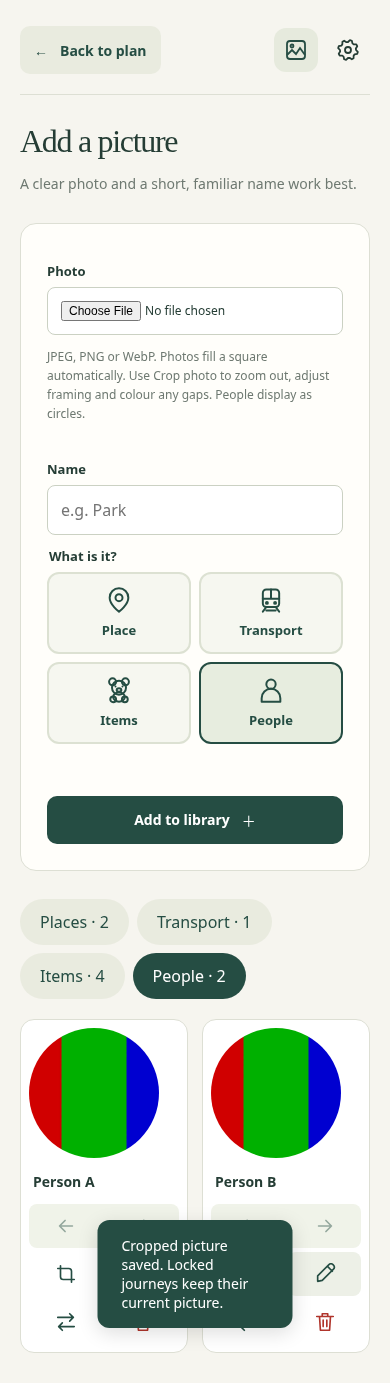
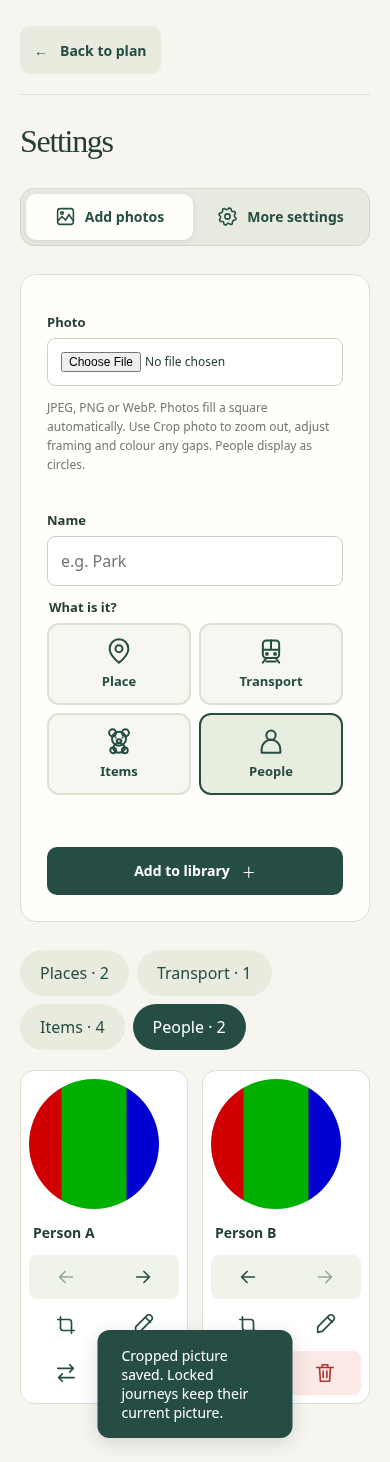
Combine photo management and settings in segmented tabs in v1.0.16

diff --git a/transition_cues/transition-cues-web/app.js b/transition_cues/transition-cues-web/app.js
@@ -3,7 +3,7 @@ const $ = s => document.querySelector(s);
 const esc = x => String(x ?? '').replace(/[&<>"']/g, c => ({'&':'&amp;','<':'&lt;','>':'&gt;','"':'&quot;',"'":'&#39;'}[c]));
 const app = $('#app');
 let state, selected = {places:null, transport:null, items:[], people:[]}, category = 'places', locked = null, taps = [], pendingDelete = null;
-let toastTimer, pendingJourney = null, pendingEdit = null, itemsReviewed = false, reorderBusy = false;
+let toastTimer, pendingJourney = null, pendingEdit = null, itemsReviewed = false, reorderBusy = false, settingsTabFocus = false;
 function toast(message) { $('#toast').textContent = message; $('#toast').hidden = false; clearTimeout(toastTimer); toastTimer = setTimeout(() => $('#toast').hidden = true, 4500); }
 async function api(path, data) {
   let response;
@@ -15,14 +15,34 @@ async function api(path, data) {
   return result;
 }
 async function refresh() { state = await api('state'); state.items ??= []; state.people ??= []; }
+const libraryIcon='<svg viewBox="0 0 24 24" fill="none" stroke="currentColor" stroke-width="1.8" aria-hidden="true"><rect x="3" y="3" width="18" height="18" rx="3"/><circle cx="8" cy="8" r="1.5"/><path d="m3 17 5-5 4 4 4-6 5 7"/></svg>';
+const settingsIcon='<svg viewBox="0 0 24 24" fill="none" stroke="currentColor" stroke-width="1.8" stroke-linejoin="round" aria-hidden="true"><polygon points="20.00,12.00 21.81,13.95 21.24,15.83 18.65,16.44 17.66,17.66 17.56,20.31 15.83,21.24 13.56,19.85 12.00,20.00 10.05,21.81 8.17,21.24 7.56,18.65 6.34,17.66 3.69,17.56 2.76,15.83 4.15,13.56 4.00,12.00 2.19,10.05 2.76,8.17 5.35,7.56 6.34,6.34 6.44,3.69 8.17,2.76 10.44,4.15 12.00,4.00 13.95,2.19 15.83,2.76 16.44,5.35 17.66,6.34 20.31,6.44 21.24,8.17 19.85,10.44"/><circle cx="12" cy="12" r="3"/></svg>';
 function frame(content, route) {
   document.body.classList.remove('lock-active');
-  const libraryIcon='<svg viewBox="0 0 24 24" fill="none" stroke="currentColor" stroke-width="1.8" aria-hidden="true"><rect x="3" y="3" width="18" height="18" rx="3"/><circle cx="8" cy="8" r="1.5"/><path d="m3 17 5-5 4 4 4-6 5 7"/></svg>';
-  const settingsIcon='<svg viewBox="0 0 24 24" fill="none" stroke="currentColor" stroke-width="1.8" stroke-linejoin="round" aria-hidden="true"><polygon points="20.00,12.00 21.81,13.95 21.24,15.83 18.65,16.44 17.66,17.66 17.56,20.31 15.83,21.24 13.56,19.85 12.00,20.00 10.05,21.81 8.17,21.24 7.56,18.65 6.34,17.66 3.69,17.56 2.76,15.83 4.15,13.56 4.00,12.00 2.19,10.05 2.76,8.17 5.35,7.56 6.34,6.34 6.44,3.69 8.17,2.76 10.44,4.15 12.00,4.00 13.95,2.19 15.83,2.76 16.44,5.35 17.66,6.34 20.31,6.44 21.24,8.17 19.85,10.44"/><circle cx="12" cy="12" r="3"/></svg>';
-  app.innerHTML = `<div class="shell"><header class="header ${route==='choose'?'':'subpage-header'}">${route==='choose'?'<a class="brand" href="#choose"><img src="/icon.svg" alt=""><span>ReadySteady<small>Transition Cues</small></span></a>':'<a class="back-plan secondary" href="#choose"><span aria-hidden="true">←</span> Back to plan</a>'}<nav class="nav" aria-label="Main navigation">${[['manage','Picture library',libraryIcon],['settings','Settings',settingsIcon]].map(([r,t,icon])=>`<a class="icon-link" href="#${r}" aria-label="${t}" title="${t}" ${route===r?'aria-current="page"':''}>${icon}</a>`).join('')}</nav>${state.returnUrl ? `<a class="return-link" href="${esc(state.returnUrl)}">← Back to main screen</a>` : ''}</header>${content}</div>`;
+  app.innerHTML = `<div class="shell"><header class="header ${route==='choose'?'':'subpage-header'}">${route==='choose'?'<a class="brand" href="#choose"><img src="/icon.svg" alt=""><span>ReadySteady<small>Transition Cues</small></span></a>':'<a class="back-plan secondary" href="#choose"><span aria-hidden="true">←</span> Back to plan</a>'}${route==='choose'?`<nav class="nav" aria-label="Main navigation">${[['manage','Picture library',libraryIcon],['settings','Settings',settingsIcon]].map(([r,t,icon])=>`<a class="icon-link" href="#${r}" aria-label="${t}" title="${t}" ${route===r?'aria-current="page"':''}>${icon}</a>`).join('')}</nav>`:''}${state.returnUrl ? `<a class="return-link" href="${esc(state.returnUrl)}">← Back to main screen</a>` : ''}</header>${content}</div>`;
 }
-function intro(title, description, extra='') { return `<div class="intro"><div><h1>${title}</h1><p>${description}</p></div>${extra}</div>`; }
+function intro(title, description, extra='') { return `<div class="intro"><div><h1>${title}</h1>${description?`<p>${description}</p>`:''}</div>${extra}</div>`; }
 
+function settingsHeader(section) {
+  return intro('Settings')+`<div class="settings-segments" role="tablist" aria-label="Settings sections">${[['photos','Add photos',libraryIcon],['more','More settings',settingsIcon]].map(([key,label,icon])=>`<button type="button" role="tab" id="settingsTab-${key}" aria-selected="${key===section}" aria-controls="settingsPanel" tabindex="${key===section?'0':'-1'}" data-settings-section="${key}">${icon}<span>${label}</span></button>`).join('')}</div>`;
+}
+function wireSettingsSections(section) {
+  const tabs=[...app.querySelectorAll('[data-settings-section]')];
+  function selectTab(tab) {
+    const target=tab.dataset.settingsSection==='photos'?'#settings':'#settings-more';
+    if(tab.dataset.settingsSection===section){tab.focus();return;}
+    settingsTabFocus=true;location.hash=target;
+  }
+  tabs.forEach((tab,index)=>{
+    tab.onclick=()=>selectTab(tab);
+    tab.onkeydown=e=>{
+      const next={ArrowLeft:(index+1)%2,ArrowRight:(index+1)%2,Home:0,End:1}[e.key];
+      if(next===undefined)return;
+      e.preventDefault();selectTab(tabs[next]);
+    };
+  });
+  if(settingsTabFocus){$('#settingsTab-'+section).focus({preventScroll:true});settingsTabFocus=false;}
+}
 const MAX_BRING_ITEMS = 4;
 function empty(kind) {
   const content = {
@@ -117,8 +137,9 @@ const uploadCategories = [
   ['people','People','<circle cx="12" cy="7" r="4"/><path d="M4 22v-3a8 8 0 0 1 16 0v3Z"/>']
 ];
 function renderManage() {
-  frame(intro('Add a picture','A clear photo and a short, familiar name work best.')+
-    `<div class="management"><section class="panel" aria-label="Upload a picture"><form id="uploadForm"><div><label for="photo">Photo</label><input id="photo" type="file" accept="image/jpeg,image/png,image/webp" required><p class="help">JPEG, PNG or WebP. Photos fill a square automatically. Use Crop photo to zoom out, adjust framing and colour any gaps. People display as circles.</p><img id="photoPreview" class="preview-image" alt="Selected photo preview" hidden><button id="cropUpload" class="secondary" type="button" hidden>Crop photo</button></div><div><label for="name">Name</label><input id="name" maxlength="60" placeholder="e.g. Park" required></div><fieldset class="kind-picker"><legend>What is it?</legend><div class="kind-options">${categoryChoices('kind',category)}</div></fieldset><p id="uploadError" class="error" role="alert"></p><button class="primary" type="submit" id="uploadButton">Add to library <span aria-hidden="true">＋</span></button></form></section><section aria-label="Existing pictures"><div class="tabs" aria-label="Picture categories">${[['places','Places'],['transport','Transport'],['items','Items'],['people','People']].map(([k,t])=>`<button data-tab="${k}" aria-pressed="${category===k}">${t} · ${state[k].length}</button>`).join('')}</div><div id="library"></div></section></div>`, 'manage');
+  frame(settingsHeader('photos')+`<section id="settingsPanel" role="tabpanel" aria-labelledby="settingsTab-photos">`+
+    `<div class="management"><section class="panel" aria-label="Upload a picture"><form id="uploadForm"><div><label for="photo">Photo</label><input id="photo" type="file" accept="image/jpeg,image/png,image/webp" required><p class="help">JPEG, PNG or WebP. Photos fill a square automatically. Use Crop photo to zoom out, adjust framing and colour any gaps. People display as circles.</p><img id="photoPreview" class="preview-image" alt="Selected photo preview" hidden><button id="cropUpload" class="secondary" type="button" hidden>Crop photo</button></div><div><label for="name">Name</label><input id="name" maxlength="60" placeholder="e.g. Park" required></div><fieldset class="kind-picker"><legend>What is it?</legend><div class="kind-options">${categoryChoices('kind',category)}</div></fieldset><p id="uploadError" class="error" role="alert"></p><button class="primary" type="submit" id="uploadButton">Add to library <span aria-hidden="true">＋</span></button></form></section><section aria-label="Existing pictures"><div class="tabs" aria-label="Picture categories">${[['places','Places'],['transport','Transport'],['items','Items'],['people','People']].map(([k,t])=>`<button data-tab="${k}" aria-pressed="${category===k}">${t} · ${state[k].length}</button>`).join('')}</div><div id="library"></div></section></div></section>`, 'settings');
+  wireSettingsSections('photos');
   const uploadKind=()=>$('#uploadForm input[name="kind"]:checked').value;
   app.querySelectorAll('[data-tab]').forEach(b=>b.onclick=()=>{category=b.dataset.tab;renderManage();});
   renderLibrary();
@@ -296,7 +317,8 @@ function renderLibrary() {
 $('#deleteCancel').onclick=()=>$('#deleteDialog').close();
 $('#deleteForm').onsubmit=async e=>{e.preventDefault();const b=e.submitter;b.disabled=true;try{await api('delete',pendingDelete);$('#deleteDialog').close();await refresh();renderManage();toast('Picture removed.');}catch(error){toast(error.message);}finally{b.disabled=false;}};
 function renderSettings() {
-  frame(intro('A few things for the grown-ups.','Keep your return link up to date.')+`<div class="settings-grid"><section class="panel"><h2>Back to main screen</h2><p>Add the address of your main tablet screen. A return link will appear on the parent screens.</p><form id="returnForm"><div><label for="returnUrl">Main screen address</label><input id="returnUrl" type="url" placeholder="http://homeassistant.local:8123/…" value="${esc(state.returnUrl)}"></div><button class="primary">Save link</button><p id="returnError" class="error" role="alert"></p></form></section><section class="panel wide"><h2>On the tablet</h2><p>Choose a place, transport and up to four optional items to bring along, plus any people joining you, then tap “Show the plan”. To finish, tap the picture screen five times within three seconds. Turn the device to landscape to show the plan.</p><p>Use the tablet’s kiosk mode or guided access to prevent leaving the browser. Keep ReadySteady open in its own browser tab rather than embedding it inside another page.</p><p class="help">To manage pictures from your phone, open this app’s address and choose Picture library. Both devices must reach the same server. Your pictures stay on your home server.</p></section></div>`, 'settings');
+  frame(settingsHeader('more')+`<section id="settingsPanel" role="tabpanel" aria-labelledby="settingsTab-more"><div class="settings-grid"><section class="panel"><h2>Back to main screen</h2><p>Add the address of your main tablet screen. A return link will appear on the parent screens.</p><form id="returnForm"><div><label for="returnUrl">Main screen address</label><input id="returnUrl" type="url" placeholder="http://homeassistant.local:8123/…" value="${esc(state.returnUrl)}"></div><button class="primary">Save link</button><p id="returnError" class="error" role="alert"></p></form></section></div></section>`, 'settings');
+  wireSettingsSections('more');
   $('#returnForm').onsubmit=async e=>{e.preventDefault();const b=e.submitter;b.disabled=true;try{await api('settings',{returnUrl:$('#returnUrl').value.trim()});await refresh();renderSettings();toast('Return link saved.');}catch(error){$('#returnError').textContent=error.message;}finally{b.disabled=false;}};
 }
 
@@ -304,7 +326,7 @@ async function route() {
   if($('#planDialog').open)$('#planDialog').close();
   if(locked){renderLocked();return;}
   const view=location.hash.slice(1) || (location.pathname==='/manage'?'manage':location.pathname==='/settings'?'settings':'choose');
-  if(view==='manage')renderManage();else if(view==='settings')renderSettings();else renderChoose();
+  if(view==='manage'||view==='settings')renderManage();else if(view==='settings-more')renderSettings();else renderChoose();
 }
 window.addEventListener('hashchange',()=>route());
 // Refresh the library when a parent returns to this tab; never replace a locked cue.

diff --git a/transition_cues/transition-cues-web/style.css b/transition_cues/transition-cues-web/style.css
@@ -48,3 +48,5 @@
 .library-order{display:grid;grid-template-columns:1fr 1fr;gap:4px;background:#f0f3e9;border-radius:8px;margin:4px 0}.step-inactive .step-options{opacity:.4;filter:grayscale(1)}.step-inactive .picture:disabled{opacity:1}.step-prerequisite{font-size:13px;color:var(--muted);margin:-8px 0 16px}.skip-items{margin:0 0 16px;font-size:13px;padding:10px 14px;min-height:40px}.journey-bar{padding:14px 18px;gap:12px}.journey-bar #start{width:auto;min-height:40px;padding:10px 16px;font-size:13px;align-self:flex-end}
 
 .brand small{font-size:11px;line-height:1.3;letter-spacing:.6px;margin-top:4px}
+
+.settings-segments{display:flex;gap:4px;padding:5px;margin:0 0 28px;border:1px solid #d3d9ca;border-radius:14px;background:#e7ebdf;width:min(100%,440px)}.settings-segments [role=tab]{display:flex;align-items:center;justify-content:center;gap:9px;flex:1;min-width:0;min-height:46px;padding:10px 12px;border-radius:10px;color:var(--green);background:transparent;font-size:14px;font-weight:600}.settings-segments [role=tab][aria-selected=true]{background:#fffefa;box-shadow:0 2px 7px #253d351a}.settings-segments svg{width:21px;height:21px;flex:none}#settingsPanel{margin-bottom:28px}

diff --git a/tests/browser_display.py b/tests/browser_display.py
@@ -26,6 +26,26 @@ def run(engine):
                 expect(page.locator('#start')).to_be_disabled()
                 expect(page.locator('#pinDialog')).to_have_count(0)
                 page.get_by_role('link',name='Settings',exact=True).click()
+                expect(page.get_by_role('heading',name='Settings',exact=True)).to_be_visible()
+                expect(page.locator('.intro p')).to_have_count(0)
+                expect(page.get_by_role('tab',name='Add photos',exact=True)).to_have_attribute('aria-selected','true')
+                expect(page.locator('#uploadForm')).to_be_visible()
+                expect(page.locator('#returnForm')).to_have_count(0)
+                expect(page.get_by_text('On the tablet',exact=True)).to_have_count(0)
+                expect(page.locator('.settings-segments svg')).to_have_count(2)
+                page.screenshot(path='/tmp/readysteady-settings-photos.png',full_page=True)
+                page.get_by_role('tab',name='More settings',exact=True).click()
+                expect(page.get_by_role('tab',name='More settings',exact=True)).to_have_attribute('aria-selected','true')
+                expect(page.locator('#uploadForm')).to_have_count(0)
+                expect(page.locator('#settingsPanel h2')).to_have_count(1)
+                expect(page.locator('#settingsPanel h2')).to_have_text('Back to main screen')
+                expect(page.locator('#returnUrl')).to_be_visible()
+                page.screenshot(path='/tmp/readysteady-settings-more.png',full_page=True)
+                page.get_by_role('tab',name='More settings',exact=True).press('Home')
+                expect(page.get_by_role('tab',name='Add photos',exact=True)).to_be_focused()
+                expect(page.locator('#uploadForm')).to_be_visible()
+                page.get_by_role('tab',name='Add photos',exact=True).press('End')
+                expect(page.get_by_role('tab',name='More settings',exact=True)).to_be_focused()
                 expect(page.locator('#returnUrl')).to_be_visible()
                 page.get_by_role('link',name='Back to plan',exact=False).click()
                 expect(page.locator('#start')).not_to_be_visible()

diff --git a/tests/browser_smoke.py b/tests/browser_smoke.py
@@ -123,10 +123,11 @@ def run():
                 expect(page.locator('#lockedSurface')).to_have_count(0)
                 expect(page.locator('#itemCount')).to_contain_text('0 of 4')
                 expect(page.get_by_role('button', name='Drink', exact=True)).to_have_count(0)
-                mobile.get_by_role('link', name='Settings', exact=True).click()
+                mobile.get_by_role('tab', name='More settings', exact=True).click()
                 mobile.locator('#returnUrl').fill('http://homeassistant.local:8123/lovelace/0')
                 mobile.get_by_role('button', name='Save link').click()
                 expect(mobile.get_by_role('link', name='Back to main screen', exact=False)).to_be_visible()
+                expect(mobile.get_by_role('tab',name='More settings',exact=True)).to_have_attribute('aria-selected','true')
                 assert not errors, errors
                 browser.close()
                 print('PASS: original flows; item uploads, optional selection, four-item cap, deselection, old journey restore, item layout at tablet/phone sizes, item snapshots after refresh and cross-device deletion; no browser errors.')

diff --git a/tests/container_smoke.py b/tests/container_smoke.py
@@ -81,5 +81,5 @@ print('PASS: replacement container preserves library and images in /data')
 
 if __name__ == '__main__':
     parser = argparse.ArgumentParser()
-    parser.add_argument('--image', default='transition-cues-ha-check:1.0.15')
+    parser.add_argument('--image', default='transition-cues-ha-check:1.0.16')
     run(parser.parse_args().image)

diff --git a/README.md b/README.md
@@ -26,7 +26,7 @@ No GitHub token is needed for this public repository. You do not need to copy fi
 
 Choose a place and transport, optionally select up to four bring-along items and any people joining you, then tap **Show the plan**. The locked display shows the place and transport first, followed by selected people as circular portraits and bring-along items in side-by-side groups. The journey appears in landscape; portrait shows a **Turn your device** prompt. People and items are optional; tap any selected picture again to deselect it. Tap five times within three seconds to finish. Reloading restores the locked journey in that browser.
 
-On a phone, open the same server address and choose **Picture library** to upload, name, browse and remove pictures in all four categories. Use **Crop photo** before uploading or beside an existing library picture to frame the image. People have a circular preview; drag, zoom or use the position sliders to centre each face. Use Settings to add a **Back to main screen** link in the parent-screen navigation. The return link can point to a dashboard or another application.
+On a phone, open the same server address and choose **Settings → Add photos** to upload, name, browse and remove pictures in all four categories. Use **Crop photo** before uploading or beside an existing library picture to frame the image. People have a circular preview; drag, zoom or use the position sliders to centre each face. Use **Settings → More settings** to add a **Back to main screen** link in the parent-screen navigation. The return link can point to a dashboard or another application.
 
 After **Show the plan**, a splash screen explains how to unlock the display. Choose **Continue to the plan** to lock it, or **Back to choices** to keep editing. Tick **Don’t show this again** before continuing to skip the splash on future journeys in this browser on this device. The preference survives reloads and add-on updates; clearing browser site data resets it. Other devices keep their own preference.
 
@@ -55,6 +55,7 @@ The browser stores only the current locked journey snapshot locally. Uploaded ph
 Screenshots use coloured test placeholders, not family photographs:
 
 - [Tablet selection screen](docs/screenshots/picker.png)
+- [More settings](docs/screenshots/settings.png)
 - [Portrait rotation prompt](docs/screenshots/portrait.png)
 - [Locked display with people and bring-along items](docs/screenshots/locked.png)
 - [Phone picture library](docs/screenshots/phone.png)

diff --git a/transition_cues/DOCS.md b/transition_cues/DOCS.md
@@ -40,11 +40,11 @@ If you are starting with an empty library, stop the old add-on, install and star
 
 ## First launch and pictures
 
-Use the picture icon at the top right for **Picture library**, and the gear icon for **Settings**. Both have accessible labels and tooltips. On those pages, use **← Back to plan** at the top left to return to journey selection.
+The picture and gear icons at the top right open **Settings**, with **Add photos** selected by default. Its picture icon shows the upload form and existing library. Choose **More settings** (cog icon) for the **Back to main screen** address; this is the only setting in that section. Use **← Back to plan** at the top left to return to journey selection. The segmented control supports the arrow keys and Home/End, and existing picture-library URLs still open Add photos.
 
 No PIN or first-launch setup is required. Open the picture library to add your photos. Existing photo libraries and return links remain available after updating; obsolete saved PIN hashes are removed automatically.
 
-In **Picture library**, choose a photo, enter its name, then choose the **Place** (location pin), **Transport** (train), **Items** (teddy bear), or **People** (person) icon and add it. Use the Places, Transport, Items and People tabs to browse and remove pictures. JPEG, PNG and WebP are supported; convert HEIC files first. Photos are resized to at most 1600 pixels before upload. The four-item limit applies to a journey; the item library may contain more than four pictures.
+In **Settings → Add photos**, choose a photo, enter its name, then choose the **Place** (location pin), **Transport** (train), **Items** (teddy bear), or **People** (person) icon and add it. Use the Places, Transport, Items and People tabs to browse and remove pictures. JPEG, PNG and WebP are supported; convert HEIC files first. Photos are resized to at most 1600 pixels before upload. The four-item limit applies to a journey; the item library may contain more than four pictures.
 
 ## Manage existing pictures
 

diff --git a/transition_cues/CHANGELOG.md b/transition_cues/CHANGELOG.md
@@ -1,5 +1,11 @@
 # Changelog
 
+## 1.0.16
+
+- Combine photo management and settings under a Settings heading with an icon-labelled segmented control.
+- Open Add photos by default; keep only Back to main screen in More settings.
+- Remove the page subtitle and On the tablet section. Keep existing picture-library links working.
+
 ## 1.0.15
 
 - Rename the app to ReadySteady, with Transition Cues as the subtitle beneath the name.
